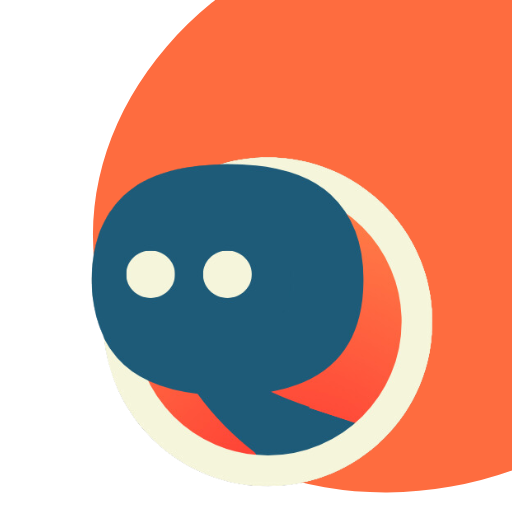
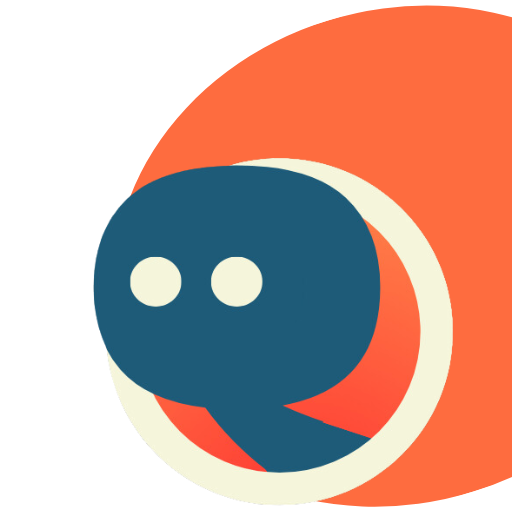
home edited

diff --git a/src/components/About.jsx b/src/components/About.jsx
@@ -1,5 +1,6 @@
 import React from 'react'
 import styles from "../styles";
+import biglogo from '../assets/mascot.png'
 
 const About = () => {
   return (
@@ -11,10 +12,30 @@ const About = () => {
             <span className="text-orange-600">Service</span>{" "}
           </h1>
         </div>
+        <h1 className="font-poppins font-extrabold ss:text-[68px] text-[52px] text-[#1D5B79] ss:leading-[100.8px] leading-[75px] w-full">
+          Provider.
+        </h1>
         <p className={`${styles.paragraph} max-w-[470px] mt-5`}>
           Quircom is always on the lookout for like-minded visionaries and businesses eager to make their mark in the world.
         </p>
+        <div className={`${styles.flexCenter} w-[150px] h-[50px] p-[2px] m-[20px]`}>
+          <div className={`${styles.flexCenter} flex-col bg-orange-600 w-[100%] h-[100%] rounded-full cursor-pointer`}>
+            <div className={`${styles.flexStart} flex-row`}>
+              <p className="font-poppins font-bold text-[18px] text-white leading-[23.4px]">
+                <a href='#' className="text-gradient">Learn more!</a>
+              </p>
+              
+            </div>
+          </div>
+        </div>
       </div>
+      <div className={'hidden md:flex'}>
+        <img src={biglogo}  className="w-[43%]  right-0 top-[0] absolute z-[-5]" />
+      </div>
+      <div className={`flex-1 flex ${styles.flexCenter} md:hidden my-10 relative`}>
+        <img src={biglogo}  className="w-[80%] absolute top-0 right-0" />
+      </div>
+
     </section> 
   )
   }

diff --git a/src/App.jsx b/src/App.jsx
@@ -10,11 +10,11 @@ function App() {
       <div>
           <Navbar />
       </div>
-      <div className={`bg-primary ${styles.flexStart}`}>
-      <div className={`${styles.boxWidth}`}>
-        <About />
+      <div className={`${styles.flexStart}`}>
+        <div className={`${styles.boxWidth}`}>
+          <About />
+        </div>
       </div>
-    </div>
     </div>
   )
 }
